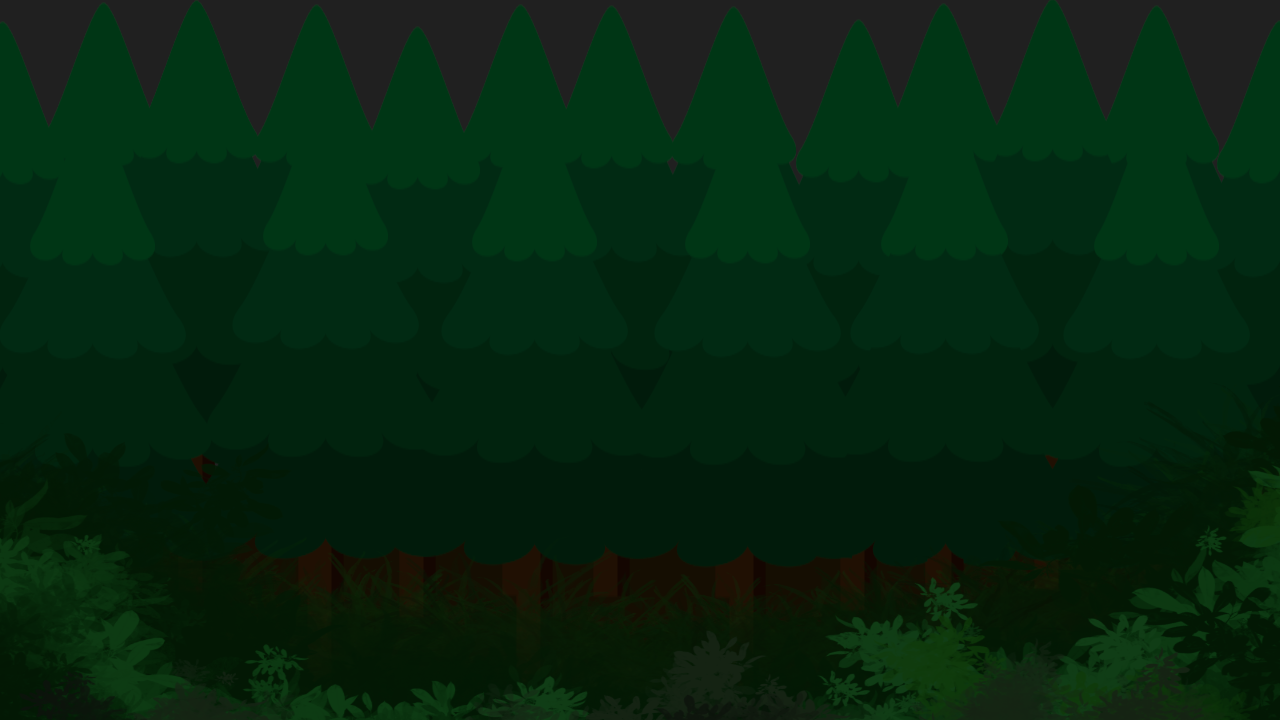
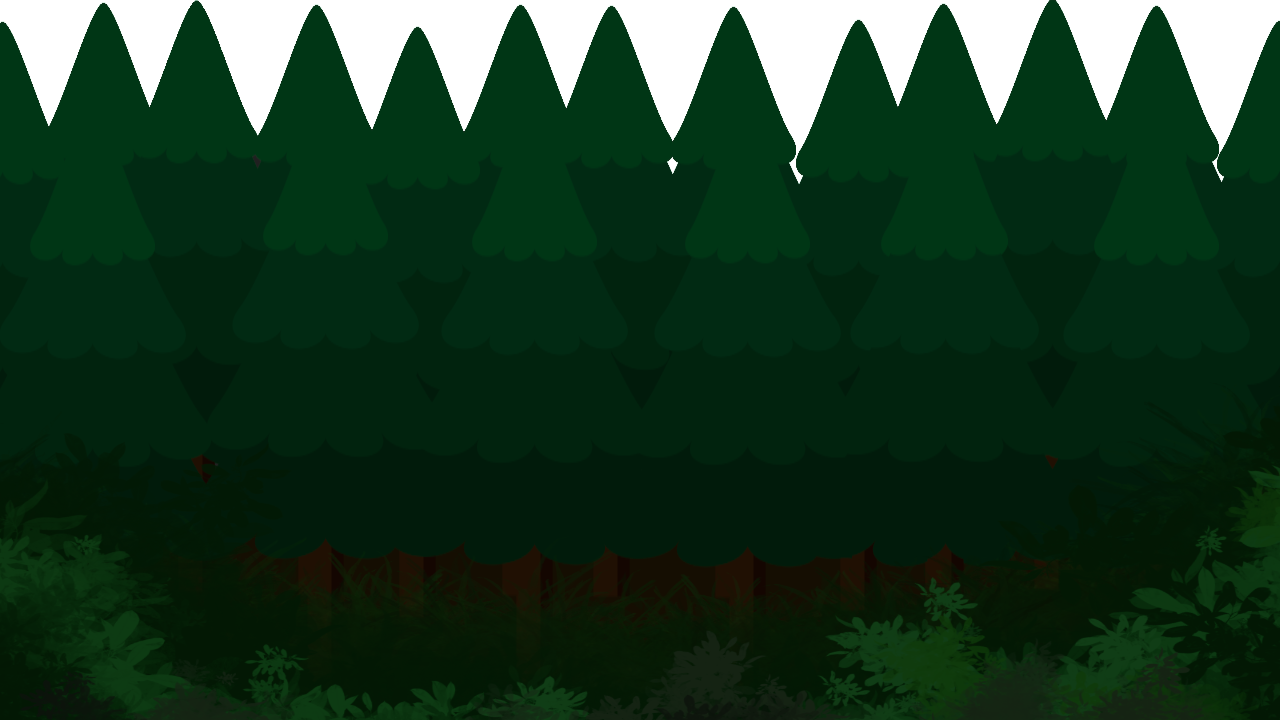
タイトル画像位置・オープニングのバックグラウンドを変更・画像を草原・スカイボックス・オープニング背景を追加（壁も更新）

Changed region(s): [[0.0, 0.0, 1.0, 0.2444], [0.5, 0.2139, 0.5312, 0.2444]]

diff --git a/Tank_Ojousama/DirectX12/Scene/Title.cpp b/Tank_Ojousama/DirectX12/Scene/Title.cpp
@@ -4,7 +4,7 @@
 #include "../Collision/Collision.h"
 #include "../Sound/Sound.h"
 
-Title::Title():
+Title::Title() :
 	mBGM(nullptr)
 {
 
@@ -12,7 +12,7 @@ Title::Title():
 
 Title::~Title()
 {
-	
+
 }
 
 void Title::StartScene()
@@ -27,8 +27,8 @@ void Title::StartScene()
 	ojyouY = 0.0f;
 	ojyouXR = 0.0f;
 	ojyouXL = 0.0f;
-	camera->SetEye(Vector3(0.0f,0 ,-122));
-	camera->SetTarget(Vector3(0.0f, 0,-100.0f));
+	camera->SetEye(Vector3(0.0f, 0, -122));
+	camera->SetTarget(Vector3(0.0f, 0, -100.0f));
 	ojoP = Vector3(0, -25, -113);
 	BaseScene::mSprite->AddTexture("Title", "Resouse/Title.png");
 	BaseScene::mSprite->AddTexture("Push", "Resouse/start.png");
@@ -93,16 +93,18 @@ void Title::DrawScene()
 	BaseScene::mModel->Draw("TankPlayerA", ojoP, Vector3(0, 0, 0), Vector3(1.5f, 1.5f, 1.5f));
 	//playerModel->Draw("TankPlayerHou", Vector3(position.x, position.y, position.z), Vector3(fireAngle, -atkAngle, 0), Vector3(1.5f, 1.5f, 1.5f));
 	BaseScene::mModel->Draw("TankPlayerB", ojoP, Vector3(0, 0, 0), Vector3(1.5f, 1.5f, 1.5f));
-	BaseScene::mModel->Draw("ArmR", Vector3(ojoP.x, ojoP.y+25.0f, ojoP.z), Vector3(ojyouXR, -ojyouY, 0), Vector3(10.0f, 10.0f, 10.0f));
+	BaseScene::mModel->Draw("ArmR", Vector3(ojoP.x, ojoP.y + 25.0f, ojoP.z), Vector3(ojyouXR, -ojyouY, 0), Vector3(10.0f, 10.0f, 10.0f));
 	BaseScene::mModel->Draw("OjyouSama", ojoP, Vector3(0, -ojyouY, 0), Vector3(10.0f, 10.0f, 10.0f));
-	BaseScene::mModel->Draw("ArmL", Vector3(ojoP.x, ojoP.y+25.0f, ojoP.z), Vector3(ojyouXL, -ojyouY,0), Vector3(10.0f, 10.0f, 10.0f));
+	BaseScene::mModel->Draw("ArmL", Vector3(ojoP.x, ojoP.y + 25.0f, ojoP.z), Vector3(ojyouXL, -ojyouY, 0), Vector3(10.0f, 10.0f, 10.0f));
 	//BaseScene::mModel->Draw("Ground", Vector3(-20.0f, 4.0f, -90.0f), Vector3(0, 0, 0), Vector3(5, 5, 5));
 	DirectXManager::GetInstance()->SetData2D();
-	BaseScene::mSprite->Draw("Title", Vector3(100, 100, 0), 0.0f, Vector2(1, 1), Vector4(1, 1, 1, 1));
-	BaseScene::mSprite->Draw("Push", Vector3(550, 300, 0), 0.0f, Vector2(1, 1), Vector4(1, 1, 1, 1));
-	//BaseScene::mSprite->SetSize("Heart", Vector2(1280+kakudai3, 720+kakudai));
-	//BaseScene::mSprite->SetAncPoint("Heart", Vector2(640.0f+kakudai3, 360.0f+kakudai));
-	//BaseScene::mSprite->Draw("Heart",Vector3(-640.0f-kakudai4, -360.0f-kakudai2, 0), 0.0f, Vector2(1, 1), Vector4(1, 1, 1, 1));
-	BaseScene::mSprite->Draw("Fade1",Vector3(0, 0, 0), 0.0f, Vector2(1, 1), Vector4(1, 1, 1, fade1));
+	BaseScene::mSprite->Draw("Title", Vector3(385, -10, 0), 0.0f, Vector2(1.2f, 1.2f), Vector4(1, 1, 1, 1));
+	BaseScene::mSprite->Draw("Push", Vector3(290, 580, 0), 0.0f, Vector2(1, 1), Vector4(1, 1, 1, 1));
+	//	BaseScene::mSprite->Draw("Title", Vector3(385, -10, 0), 0.0f, Vector2(1.2f, 1.2f), Vector4(1, 1, 1, 1));
+		//BaseScene::mSprite->Draw("Push", Vector3(290, 580, 0), 0.0f, Vector2(1, 1), Vector4(1, 1, 1, 1));
+		//BaseScene::mSprite->SetSize("Heart", Vector2(1280+kakudai3, 720+kakudai));
+		//BaseScene::mSprite->SetAncPoint("Heart", Vector2(640.0f+kakudai3, 360.0f+kakudai));
+		//BaseScene::mSprite->Draw("Heart",Vector3(-640.0f-kakudai4, -360.0f-kakudai2, 0), 0.0f, Vector2(1, 1), Vector4(1, 1, 1, 1));
+	BaseScene::mSprite->Draw("Fade1", Vector3(0, 0, 0), 0.0f, Vector2(1, 1), Vector4(1, 1, 1, fade1));
 	BaseScene::mSprite->Draw("Fade2", Vector3(0, 0, 0), 0.0f, Vector2(1, 1), Vector4(1, 1, 1, fade2));
 }

diff --git a/Tank_Ojousama/DirectX12/Scene/Opening.cpp b/Tank_Ojousama/DirectX12/Scene/Opening.cpp
@@ -22,7 +22,7 @@ void Opening::StartScene()
 	fadeF = false;
 	BaseScene::mSprite->AddTexture("Fade2", "Resouse/fade.png");
 	BaseScene::mModel->AddModel("Open", "Resouse/Plane1.obj", "Resouse/opening.png");
-	BaseScene::mModel->AddModel("Sora2", "Resouse/skybox.obj", "Resouse/skybox_A.png");
+	BaseScene::mModel->AddModel("Sora2", "Resouse/skybox.obj", "Resouse/back_sky.png");
 }
 
 void Opening::UpdateScene()
@@ -52,8 +52,8 @@ void Opening::UpdateScene()
 void Opening::DrawScene()
 {
 	DirectXManager::GetInstance()->SetData3D();
+	BaseScene::mModel->Draw("Sora2", Vector3(0, 2.0f, 0), Vector3(0, 0, 0), Vector3(50, 50, 50));
 	BaseScene::mModel->Draw("Open",pos, Vector3(47, 0 ,0), Vector3(100, 200, 1));	
 	DirectXManager::GetInstance()->SetData2D();
 	BaseScene::mSprite->Draw("Fade2", Vector3(0, 0, 0), 0.0f, Vector2(1, 1), Vector4(1, 1, 1, fade2));
-	//BaseScene::mModel->Draw("Sora2", Vector3(0, 2.0f, 0), Vector3(0, 0, 0), Vector3(7, 7, 7));
 }
